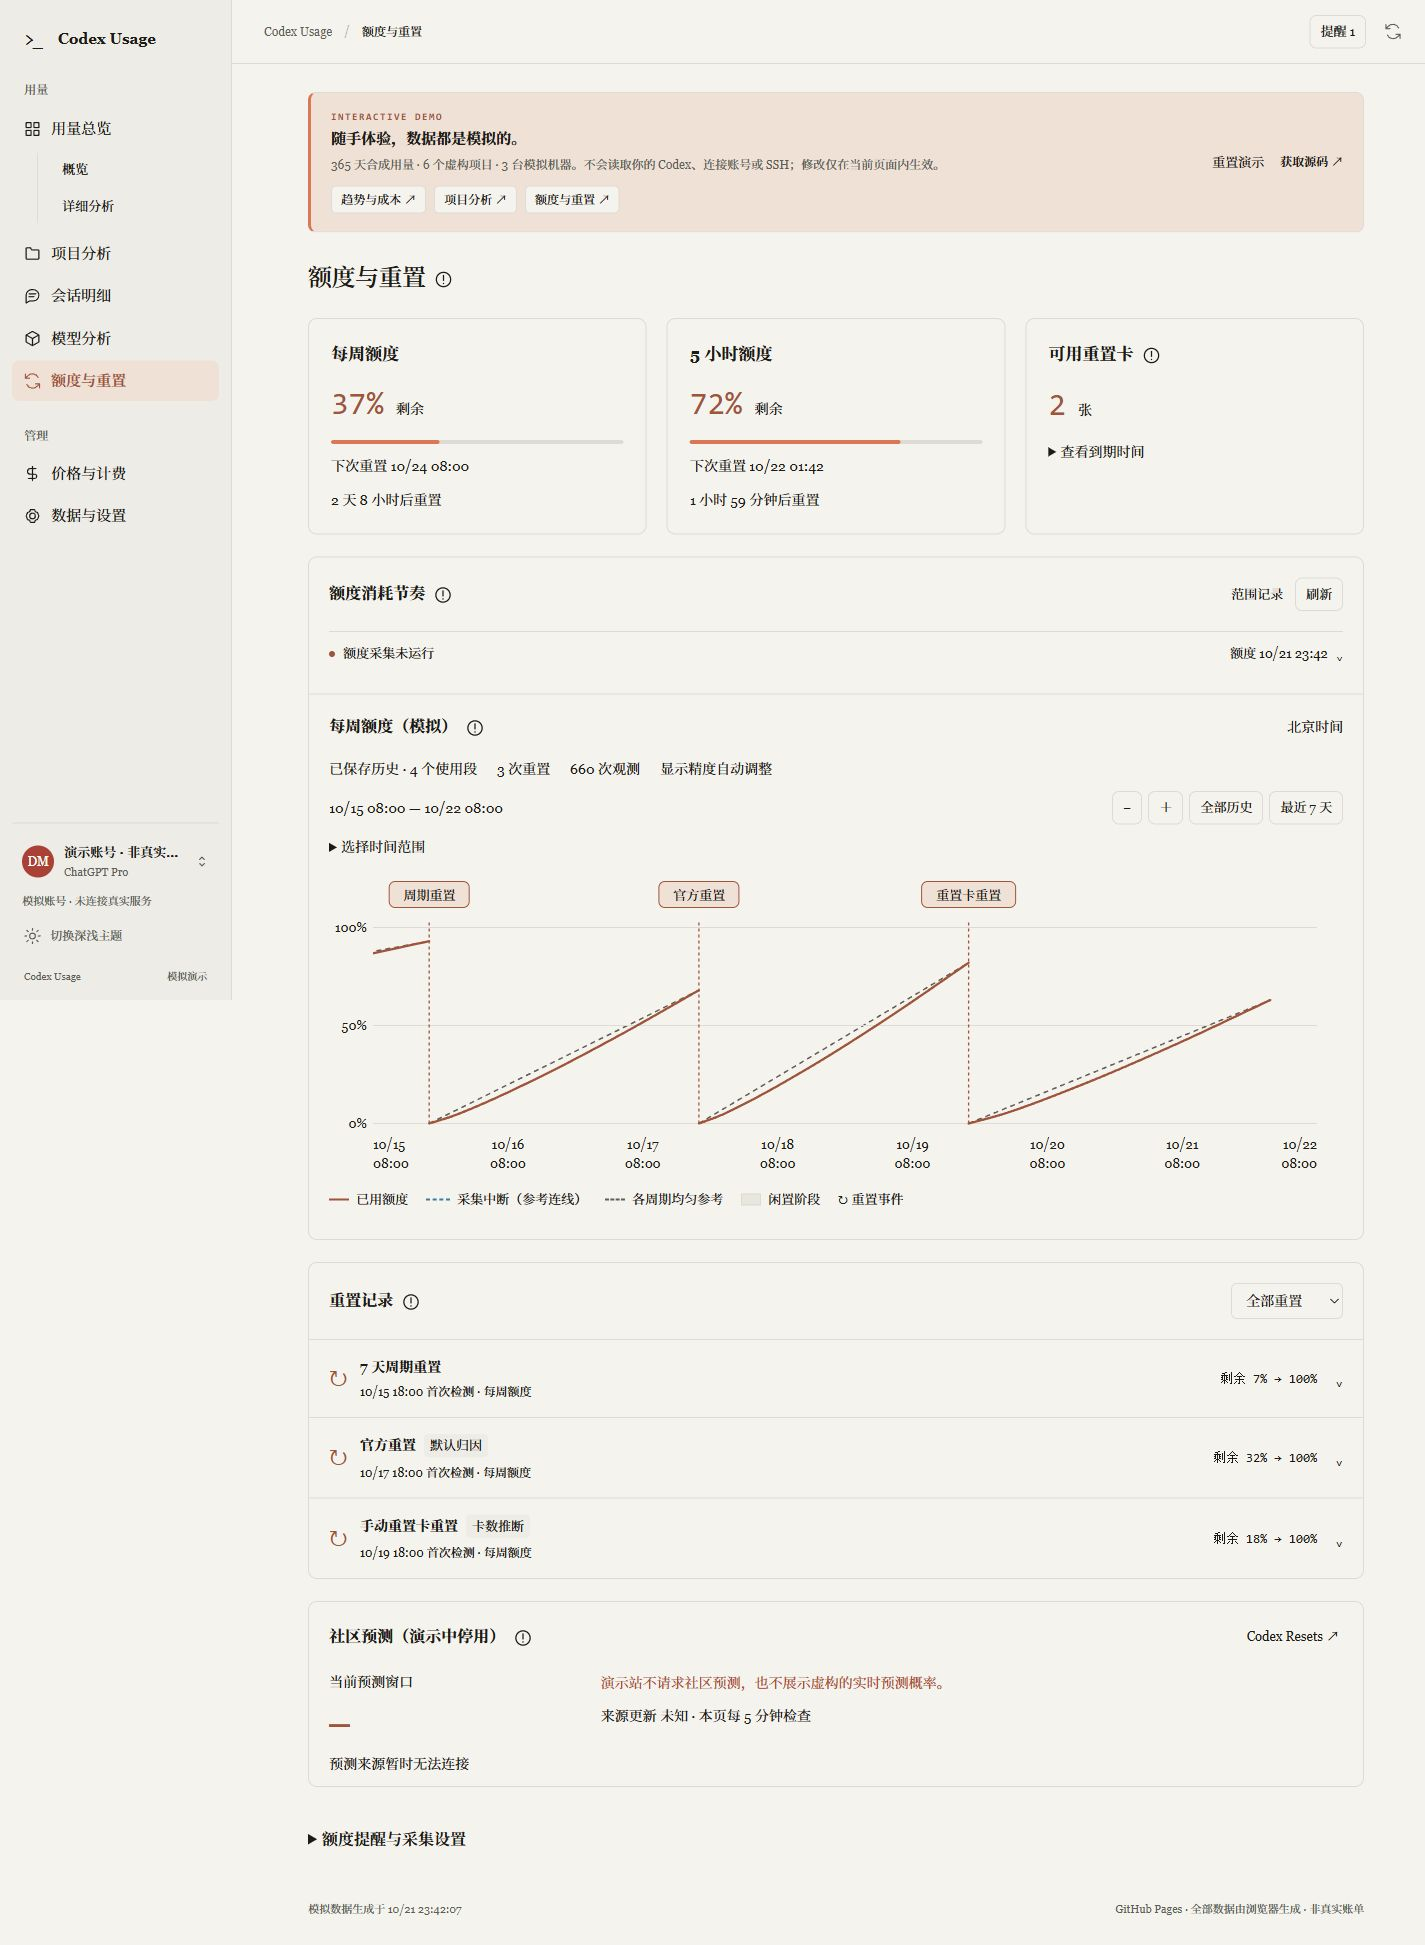
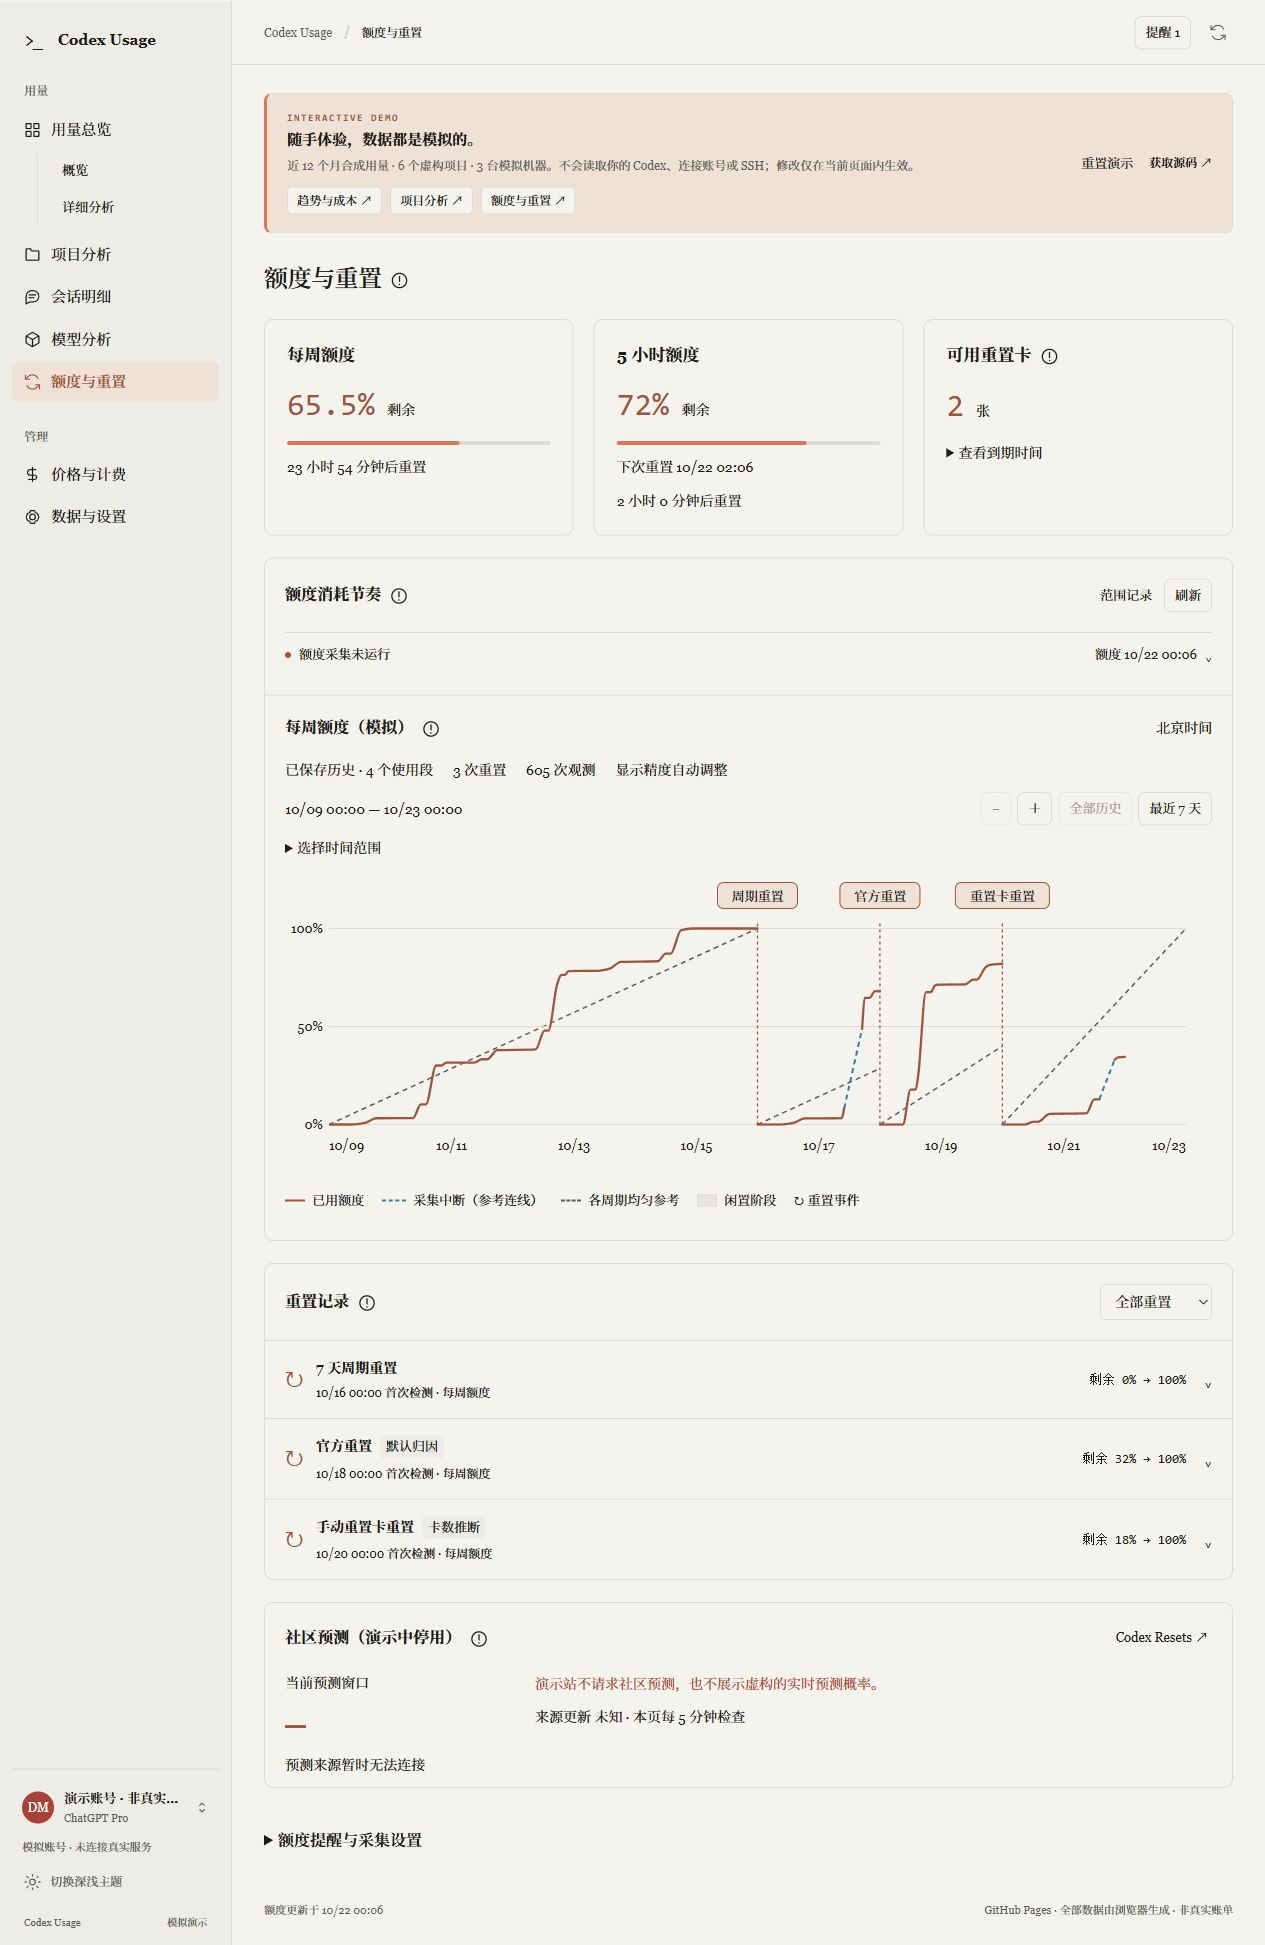
Make demo data sparse, consistent and realistic

diff --git a/demo/demo-data.js b/demo/demo-data.js
@@ -25,25 +25,36 @@ const DemoData = (() => {
     const models=['gpt-6.1-sol','gpt-6-sol','gpt-6-luna','gpt-5.3-codex'];
     const tasks=['实现搜索与筛选','修复边界条件','补充单元测试','优化缓存策略','整理接口文档','重构数据访问层','打磨响应式界面','分析性能瓶颈'];
     const events=[];
-    const base=Date.parse(iso(now).slice(0,10)+'T00:00:00Z');
-    for(let ago=364;ago>=0;ago--){
-      const weekend=[0,6].includes(new Date(base-ago*DAY).getUTCDay());
-      const count=ago===0?6:weekend?Math.floor(random()*3):3+Math.floor(random()*5);
+    // Use the same twelve calendar months as the default activity heatmap.
+    // All cards, chart cells and exports are aggregated from these event records.
+    const base=Date.parse(dayIn(now,'Asia/Shanghai')+'T00:00:00+08:00');
+    const month=new Date(base+8*3600000);
+    const first=Date.UTC(month.getUTCFullYear(),month.getUTCMonth()-11,1)-8*3600000;
+    const scales=[1,.6,.08,.004,.025,.3],weights=[.50,.74,.81,.84,.89,1];
+    for(let ago=Math.round((base-first)/DAY);ago>=0;ago--){
+      const weekend=[0,6].includes(new Date(base-ago*DAY+8*3600000).getUTCDay());
+      const vacation=(ago>=90&&ago<=103)||(ago>=220&&ago<=230);
+      const showcase=ago<=6||ago===12;
+      const active=showcase||(!vacation&&random()<(weekend?.09:.43));
+      const count=active?1+Math.floor(random()*4):0;
       for(let s=0;s<count;s++){
-        const p=projects[Math.floor(random()*projects.length)];
+        const pick=random(),index=s===0&&ago>=1&&ago<=6?ago-1:weights.findIndex(w=>pick<w);
+        const p=projects[index];
         const model=models[Math.floor(random()*models.length)];
-        const session=`demo-${String(364-ago).padStart(3,'0')}-${s}`;
-        for(let turn=0;turn<3;turn++){
-          const input=Math.round((18000+random()*65000)*(ago<45?1.45:1));
-          const cached=Math.floor(input*(.35+random()*.42)),write=Math.floor(input*.035);
-          const output=Math.round(2000+random()*11000);
-          // Today's events always precede the visitor's current time.
-          const at=ago===0?now-(count-s)*600000+turn*90000:base-ago*DAY+(s+8)*3600000+turn*90000;
+        const session=`demo-${dayIn(base-ago*DAY,'Asia/Shanghai')}-${s}`;
+        const turns=5+Math.floor(random()*14),intensity=.35+random()*1.6;
+        const start=base-ago*DAY+([9,11,14,16][s]+random()*.5)*3600000;
+        for(let turn=0;turn<turns;turn++){
+          const input=Math.round((150000+random()*400000)*scales[index]*intensity);
+          const cached=Math.floor(input*(.92+random()*.065)),write=Math.floor(input*.005);
+          const output=Math.max(120,Math.round((2500+random()*9000)*Math.sqrt(scales[index])));
+          const at=start+turn*150000;
+          if(at>now)continue;
           events.push({at:iso(at),session,title:tasks[(s+ago)%tasks.length]+' · '+p[1],
             project:p[0],project_name:p[1],project_path:'/demo/projects/'+p[0],source:p[2],source_name:p[3],
             account:ago%7===0?'demo-team':'demo-personal',model:ago===12&&s===0?'demo-experimental':model,
             input,uncached:input-cached-write,cached,write,output,reasoning:Math.floor(output*.28),total:input+output,
-            context_input:turn===2&&s===0?300000:input});
+            context_input:input});
         }
       }
     }
@@ -52,7 +63,8 @@ const DemoData = (() => {
       quota_alerts:{enabled:true,remaining_percent:20,predictive:true},
       remotes:[{id:'dev',name:'演示开发机',host:'dev.example.invalid',path:'/demo/codex',interval:120,enabled:true},
         {id:'lab',name:'演示实验机',host:'lab.example.invalid',path:'/demo/codex',interval:120,enabled:true}]};
-    const remotes=()=>config.remotes.map(r=>({...r,busy:false,error:null,files:120,synced_at:iso(now),root:r.path}));
+    const remotes=()=>config.remotes.map(r=>({...r,busy:false,error:null,
+      files:new Set(events.filter(e=>e.source==='ssh:'+r.id).map(e=>e.session)).size,synced_at:iso(now),root:r.path}));
     function priced(e){
       const rates={...catalog.models,...config.prices};
       const rate=config.prices[e.model]||rates[catalog.aliases?.[e.model]||e.model];
@@ -124,27 +136,60 @@ const DemoData = (() => {
         pricing:{...catalog,models:{...catalog.models,...config.prices},overrides:Object.keys(config.prices),unknown_models:[...new Set(rows.filter(e=>e.cost==null).map(e=>e.model))]},
         remotes:remotes(),collector:{running:false,last_scan:iso(now),scan_interval_seconds:30}};
     }
-    const quotaNow=now/1000,anchor=Math.floor(quotaNow/86400)*86400;
-    const resetEvents=[['scheduled',6,93],['official',4,68],['credit',2,82]].map(([kind,ago,before],i)=>({id:'demo-reset-'+i,kind,label:'每周额度',
-      at:anchor-ago*86400+36000,since:anchor-ago*86400+35940,confirmed_at:anchor-ago*86400+36060,before_used:before,after_used:0,
-      old_reset:anchor+3*86400,new_reset:anchor+3*86400,before_count:3,after_count:2}));
+    const quotaNow=now/1000,anchor=base/1000,day=DAY/1000;
+    const begin=anchor-13*day,end=anchor+day,scheduled=begin+7*day,deadline=scheduled+7*day;
+    const resetEvents=[['scheduled',scheduled],['official',anchor-4*day],['credit',anchor-2*day]].map(([kind,at],i)=>({
+      id:'demo-reset-'+i,kind,label:'每周额度',at,since:at-60,confirmed_at:at,
+      before_used:0,after_used:0,old_reset:i===0?at:deadline,new_reset:deadline,
+      ...(kind==='credit'?{before_count:3,after_count:2}:{})}));
+    const boundaries=[begin,...resetEvents.map(e=>e.at),end],samples=[],references=[];
+    // Work in bursts, sleep from 23:00 to 09:00, and take a lunch break.
+    // Daily weights deliberately show both slower and faster use than the reference.
+    const dailyWeights=[[.2,1.7,.4,2.4,.3,1,0],[.05,1],[1,.15],[.2,1,.4]];
+    const missing=[{since:anchor-5*day+10*3600,until:anchor-5*day+17*3600},
+      {since:anchor-day+14*3600,until:anchor-day+20*3600}];
+    for(let part=0;part<boundaries.length-1;part++){
+      const since=boundaries[part],until=boundaries[part+1],target=[100,68,82,46][part];
+      const steps=[];
+      for(let at=since;at<until;at+=1800){
+        const hour=((at+8*3600)%day)/3600,d=Math.floor((at-since)/day);
+        const work=hour>=9&&hour<12?1:hour>=14&&hour<18?2.2:hour>=20&&hour<22?.35:0;
+        const burst=1+Math.sin((at-since)/1800*1.7)*.65;
+        steps.push({at,weight:work*burst*(dailyWeights[part][d]||0)});
+      }
+      const totalWeight=steps.reduce((s,p)=>s+p.weight,0);let consumed=0,lastAt=null;
+      for(const step of steps){
+        if(step.at>quotaNow)break;
+        if(!missing.some(g=>step.at>g.since&&step.at<g.until)){
+          samples.push({at:step.at,used_percent:Math.round(target*consumed/totalWeight*10)/10,
+            break_before:lastAt===null||step.at-lastAt>1800});lastAt=step.at;
+        }
+        consumed+=step.weight;
+      }
+      const last=Math.min(until-1,quotaNow);
+      // Preserve the exact pre-reset endpoint and latest card observation.
+      if(last>samples.at(-1).at&&!missing.some(g=>last>g.since&&last<g.until)){
+        const fraction=last===quotaNow?(last-steps.findLast(s=>s.at<=last).at)/1800:1;
+        const current=steps.findLast(s=>s.at<=last);
+        const used=consumed-current.weight*(1-fraction);
+        samples.push({at:last,used_percent:Math.round(target*used/totalWeight*10)/10,break_before:last-lastAt>1800});
+      }
+      if(part<resetEvents.length)resetEvents[part].before_used=samples.at(-1).used_percent;
+      // Reference derives from the reset deadline, never from actual consumption.
+      const cycleEnd=part===0?scheduled:deadline;
+      references.push({since,until:Math.min(until,cycleEnd),before:0,
+        after:100*(Math.min(until,cycleEnd)-since)/(cycleEnd-since),cycle_end:cycleEnd});
+    }
     const acknowledged=new Set();
     function quota(){return {account:{label:'演示账号 · 非真实数据',plan:'pro'},windows:[
-      {id:'codex:primary',bucket:'codex',label:'每周额度',used_percent:63,remaining_percent:37,resets_at:anchor+3*86400,window_minutes:10080},
+      {id:'codex:primary',bucket:'codex',label:'每周额度',used_percent:samples.at(-1).used_percent,
+        remaining_percent:100-samples.at(-1).used_percent,resets_at:deadline,window_minutes:10080},
       {id:'codex:secondary',bucket:'codex',label:'5 小时额度',used_percent:28,remaining_percent:72,resets_at:quotaNow+7200,window_minutes:300}],
       reset_credits:{available_count:2,details:[{expires_at:quotaNow+15*86400},{expires_at:quotaNow+28*86400}]},reset_events:resetEvents,
       fetched_at:iso(now),busy:false,stale:false,history_scope:'demo-account',history_available:true,
-      collector:{running:false,interval_seconds:60,failures:0,last_success:iso(now)},alerts:[{id:'demo-alert',at:quotaNow-3600,active:false,
+      collector:{running:false,interval_seconds:60,failures:0,last_success:iso(now)},alerts:[{id:'demo-alert',at:resetEvents.at(-1).at-3600,active:false,
         acknowledged:acknowledged.has('demo-alert'),message:'模拟历史提醒：上一使用段剩余额度低于 20%。'}]};}
     function quotaRange(){
-      const begin=anchor-13*86400,end=anchor+86400,samples=[],references=[];
-      const boundaries=[begin,...resetEvents.map(e=>e.at),end];
-      for(let part=0;part<boundaries.length-1;part++){
-        const since=boundaries[part],until=Math.min(boundaries[part+1]-1,quotaNow),target=[93,68,82,63][part];
-        if(until<since)continue;
-        for(let at=since;at<until;at+=1800){const progress=(at-since)/(until-since);samples.push({at,used_percent:Math.round(target*progress**1.18*10)/10,break_before:at===since});}
-        samples.push({at:until,used_percent:target});references.push({since,until,before:0,after:target});
-      }
       const ticks=[];for(let at=begin;at<=end;at+=86400)ticks.push({at,date:dayIn(at*1000,config.timezone)});
       return {custom_range:true,history_scope:'demo-account',timezone:config.timezone,grain:'auto',
         range:{since:begin,until:end,since_date:ticks[0].date,until_date:ticks.at(-2).date},ticks,

diff --git a/scripts/build-demo.py b/scripts/build-demo.py
@@ -2,6 +2,7 @@
 
 Never imports the application, discovers Codex directories, or copies user data.
 """
+import hashlib
 import json
 from pathlib import Path
 import re
@@ -29,7 +30,7 @@ def build():
     html = html.replace('<script src="./model-charts.js"', '<link rel="stylesheet" href="./demo.css">\n  <script src="./demo-catalog.js" defer></script><script src="./demo-data.js" defer></script><script src="./demo-bridge.js" defer></script>\n  <script src="./model-charts.js"')
     banner = '''<section class="demo-banner" aria-label="模拟演示说明">
       <div><div class="demo-label">INTERACTIVE DEMO</div><strong>随手体验，数据都是模拟的。</strong>
-      <p>365 天合成用量 · 6 个虚构项目 · 3 台模拟机器。不会读取你的 Codex、连接账号或 SSH；修改仅在当前页面内生效。</p>
+      <p>近 12 个月合成用量 · 6 个虚构项目 · 3 台模拟机器。不会读取你的 Codex、连接账号或 SSH；修改仅在当前页面内生效。</p>
       <div class="demo-shortcuts"><button data-view="overview" data-overview-tab="analysis">趋势与成本 ↗</button><button data-view="projects">项目分析 ↗</button><button data-view="quota">额度与重置 ↗</button></div></div>
       <div class="demo-actions"><button id="resetDemo" class="text-button">重置演示</button><a href="https://github.com/KJesko/codex-usage" target="_blank" rel="noopener noreferrer">获取源码 ↗</a></div>
     </section>'''
@@ -37,7 +38,6 @@ def build():
     html = html.replace('<span>网页预览</span>', '<span>模拟演示</span>')
     html = html.replace('正在整理本地用量记录…', '正在生成模拟用量记录…')
     html = html.replace('<span data-help="后台采集">后台日志采集 30 秒 · 账号额度采集 60 秒</span>', '<span>GitHub Pages · 全部数据由浏览器生成 · 非真实账单</span>')
-    (OUTPUT / 'index.html').write_text(html, encoding='utf-8')
     css = (OUTPUT / 'style.css').read_text(encoding='utf-8')
     css = re.sub(r', url\("/fonts/[^\"]+"\) format\("truetype"\)', '', css)
     (OUTPUT / 'style.css').write_text(css, encoding='utf-8')
@@ -50,6 +50,9 @@ def build():
                    ('单价仅保存在本机', '演示修改仅在当前页面内生效，刷新后恢复'),
                    ("'更新于 ' +", "'模拟数据生成于 ' +")],
         'quota-page.js': [('官方重置预测', '社区预测（演示中停用）')],
+        'quota-range.js': [('viewports.get(key)||initialView(q)',
+                            'viewports.get(key)||{since:q.range.since,until:q.range.until}'),
+                           ('默认显示最近 7 天', '演示默认显示全部历史')],
     }
     for name, replacements in substitutions.items():
         path = OUTPUT / name
@@ -59,6 +62,13 @@ def build():
                 raise ValueError(f'Demo adaptation no longer matches {name}: {old}')
             source = source.replace(old, new)
         path.write_text(source, encoding='utf-8')
+    # A fresh deployment must not mix the new fixture with cached demo assets.
+    def version_asset(match):
+        name = match[2]
+        digest = hashlib.sha256((OUTPUT / name).read_bytes()).hexdigest()[:12]
+        return f'{match[1]}="./{name}?v={digest}"'
+    html = re.sub(r'(src|href)="\./([^"?]+)(?:\?[^" ]*)?"', version_asset, html)
+    (OUTPUT / 'index.html').write_text(html, encoding='utf-8')
     (OUTPUT / '.nojekyll').write_text('', encoding='utf-8')
     expected = set(assets + ['demo-data.js', 'demo-bridge.js', 'demo.css', 'demo-catalog.js', '.nojekyll'])
     actual = {p.name for p in OUTPUT.iterdir()}
